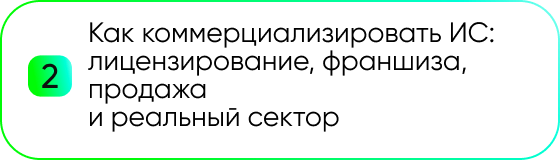
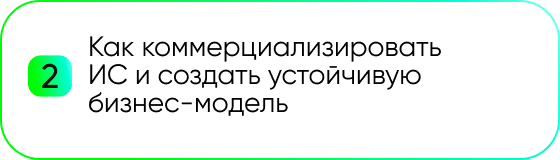
change mik-262

Changed region(s): [[0.1518, 0.125, 0.8804, 0.8125]]

diff --git a/mik-262/Охрана интеллектуальной собственности.html b/mik-262/Охрана интеллектуальной собственности.html
@@ -103,7 +103,7 @@
                                         <tr>
                                             <td style="width:600px;">
                                                 <a href="https://i.moscow/ip/study/ip_marketplaces?utm_source=marketing&utm_medium=cpm_yandex_in&utm_campaign=digital&utm_content=mp&utm_term=banner_02_in_mp_5395830" target="_blank">
-                                                    <img alt="Образовательный курс Охрана интеллектуальной собственности на маркетплейсах. Как защитить и заработать на ИС – от теории до практики. Нажмите здесь, чтобы пройти обучение." height="auto" src="https://cp.unisender.com/ru/user_file?resource=images&user_id=5608985&name=mik-262-hero.png" style="border:0;display:block;outline:none;text-decoration:none;height:auto;width:100%;font-size:13px;" width="600" />
+                                                    <img alt="Образовательный курс. Охрана интеллектуальной собственности на маркетплейсах. Как управлять и зарабатывать на ИС – от теории до практики. Нажмите здесь, чтобы пройти обучение." height="auto" src="https://cp.unisender.com/ru/user_file?resource=images&user_id=5608985&name=mik-262-hero.png" style="border:0;display:block;outline:none;text-decoration:none;height:auto;width:100%;font-size:13px;" width="600" />
                                                 </a>
                                             </td>
                                         </tr>
@@ -161,7 +161,7 @@
                             <tbody>
                             <tr>
                                 <td align="left" style="font-size:0px;word-break:break-word;padding:28px 0 19px;">
-                                    <div style="font-family: Gilroy, Helvetica, Arial, sans-serif;font-size:30px;font-weight:500;line-height:120%;text-align:left;color:#000000;">ПРЕИМУЩЕСТВА ПРОГРАММЫ:</div>
+                                    <div style="font-family: Gilroy, Helvetica, Arial, sans-serif;font-size:30px;font-weight:500;line-height:120%;text-align:left;color:#000000;">ПРЕИМУЩЕСТВА ПРОГРАММЫ</div>
                                 </td>
                             </tr>
                             </tbody>
@@ -344,7 +344,7 @@
                                 <tbody>
                                 <tr>
                                     <td align="left" style="font-size:0px;word-break:break-word;padding-top:18px;">
-                                        <div style="font-family: Gilroy, Helvetica, Arial, sans-serif;font-size:16px;font-weight:600;line-height:120%;text-align:left;color:#FFFFFF;">60&nbsp;дней доступа к&nbsp;обучающим материалам</div>
+                                        <div style="font-family: Gilroy, Helvetica, Arial, sans-serif;font-size:16px;font-weight:600;line-height:120%;text-align:left;color:#FFFFFF;">Инструменты для минимизации связанных с&nbsp;ИС&nbsp;рисков</div>
                                     </td>
                                 </tr>
                                 </tbody>
@@ -463,7 +463,7 @@
                                         <tbody>
                                         <tr>
                                             <td style="width:280px;">
-                                                <img alt="2. Как коммерциализировать ИС: лицензирование, франшиза, продажа и реальный сектор" height="auto" src="https://cp.unisender.com/ru/user_file?resource=images&user_id=5608985&name=mik-262-content-img-1_2.png" style="border:0;display:block;outline:none;text-decoration:none;height:auto;width:100%;font-size:13px;" width="280" />
+                                                <img alt="2. Как коммерциализировать ИС и создать устойчивую бизнес-модель" height="auto" src="https://cp.unisender.com/ru/user_file?resource=images&user_id=5608985&name=mik-262-content-img-1_2.png" style="border:0;display:block;outline:none;text-decoration:none;height:auto;width:100%;font-size:13px;" width="280" />
                                             </td>
                                         </tr>
                                         </tbody>
